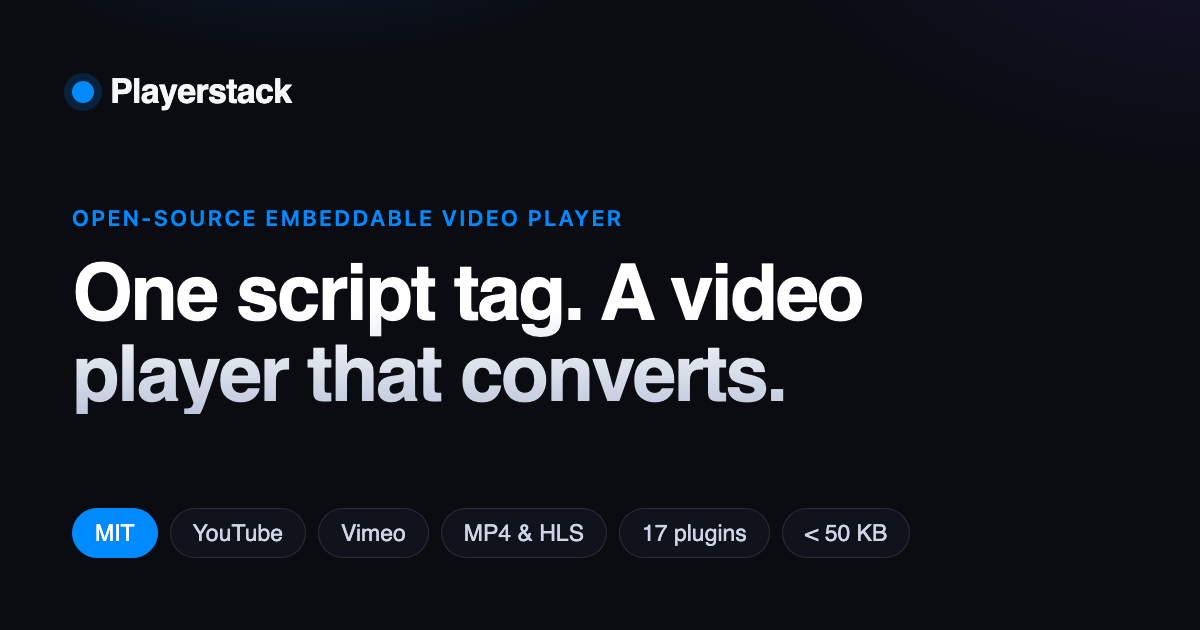
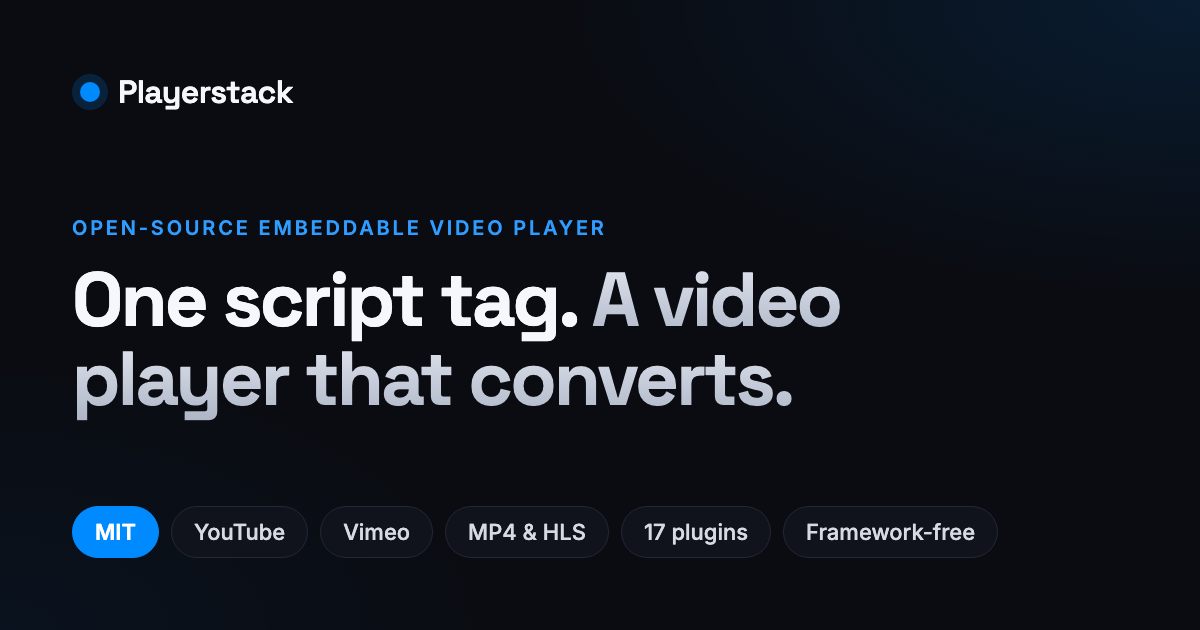
docs: regenerate OG image from source, build example 12 from the repo
- og-default.png drops the outdated "< 50 KB" chip (now "Framework-free")
  and keeps "17 plugins" (packages/plugin-*). Its source is
  apps/docs/og/og-default.html with the landing fonts; render with
  bun scripts/render-og.ts.
- examples/12-sellf-integration no longer imports unpublished
  @playerstack/* packages from esm.sh. It builds a small IIFE from the repo
  (entry.ts) with the real Sellf adapter, installing the provider before
  <player-stack> is defined.

diff --git a/apps/docs/og/og-default.html b/apps/docs/og/og-default.html
@@ -1,0 +1,118 @@
+<!doctype html>
+<!--
+  Source of apps/docs/public/og-default.png (1200x630).
+  Render: bun scripts/render-og.ts
+  Keep facts here stable: no bundle sizes (they change per release).
+-->
+<html lang="en">
+  <head>
+    <meta charset="utf-8" />
+    <style>
+      @font-face {
+        font-family: "Space Grotesk Variable";
+        src: url("../node_modules/@fontsource-variable/space-grotesk/files/space-grotesk-latin-wght-normal.woff2")
+          format("woff2-variations");
+        font-weight: 300 700;
+      }
+      @font-face {
+        font-family: "Inter Variable";
+        src: url("../node_modules/@fontsource-variable/inter/files/inter-latin-wght-normal.woff2")
+          format("woff2-variations");
+        font-weight: 100 900;
+      }
+      * {
+        box-sizing: border-box;
+        margin: 0;
+      }
+      html,
+      body {
+        width: 1200px;
+        height: 630px;
+      }
+      body {
+        background:
+          radial-gradient(900px 420px at 100% 0%, rgba(0, 138, 255, 0.13), transparent 70%),
+          radial-gradient(700px 380px at 0% 100%, rgba(0, 138, 255, 0.05), transparent 70%), #0a0c12;
+        color: #f5f7fc;
+        font-family: "Inter Variable", system-ui, sans-serif;
+        padding: 72px 72px 0;
+        position: relative;
+        overflow: hidden;
+      }
+      .brand {
+        display: flex;
+        align-items: center;
+        gap: 14px;
+        font-family: "Space Grotesk Variable", sans-serif;
+        font-weight: 600;
+        font-size: 32px;
+        letter-spacing: -0.02em;
+      }
+      .dot {
+        width: 20px;
+        height: 20px;
+        border-radius: 50%;
+        background: #008aff;
+        box-shadow: 0 0 0 8px rgba(0, 138, 255, 0.18);
+        margin: 0 4px 0 8px;
+      }
+      .eyebrow {
+        margin-top: 104px;
+        color: #2f9dff;
+        font-size: 20px;
+        font-weight: 600;
+        letter-spacing: 0.14em;
+        text-transform: uppercase;
+      }
+      h1 {
+        margin-top: 20px;
+        font-family: "Space Grotesk Variable", sans-serif;
+        font-weight: 700;
+        font-size: 76px;
+        line-height: 1.04;
+        letter-spacing: -0.035em;
+        max-width: 900px;
+      }
+      h1 .muted {
+        background: linear-gradient(180deg, #e6eaf3, #aab2c3);
+        -webkit-background-clip: text;
+        color: transparent;
+      }
+      .chips {
+        position: absolute;
+        left: 72px;
+        bottom: 72px;
+        display: flex;
+        gap: 12px;
+      }
+      .chip {
+        padding: 12px 22px;
+        border-radius: 999px;
+        border: 1px solid #222838;
+        background: #10131c;
+        color: #d5dae5;
+        font-size: 22px;
+        font-weight: 500;
+      }
+      .chip.accent {
+        background: #008aff;
+        border-color: #008aff;
+        color: #fff;
+        font-weight: 600;
+      }
+    </style>
+  </head>
+  <body>
+    <div class="brand"><span class="dot"></span>Playerstack</div>
+    <p class="eyebrow">Open-source embeddable video player</p>
+    <h1>One script tag. <span class="muted">A video player that converts.</span></h1>
+    <div class="chips">
+      <span class="chip accent">MIT</span>
+      <span class="chip">YouTube</span>
+      <span class="chip">Vimeo</span>
+      <span class="chip">MP4 &amp; HLS</span>
+      <span class="chip">17 plugins</span>
+      <span class="chip">Framework-free</span>
+    </div>
+  </body>
+</html>

diff --git a/examples/12-sellf-integration/index.html b/examples/12-sellf-integration/index.html
@@ -59,32 +59,10 @@
       ></player-stack>
     </div>
 
-    <!-- Use scoped packages instead of the standalone bundle, because we need
-         to install a custom config provider before the element registers -->
-    <script type="module">
-      import {
-        Playerstack,
-        setConfigProviderForElement,
-      } from "https://esm.sh/@playerstack/core@0.1.0";
-      import { sourcesPlugin } from "https://esm.sh/@playerstack/plugin-sources@0.1.0";
-      import { controlsPolicyPlugin } from "https://esm.sh/@playerstack/plugin-controls-policy@0.1.0";
-      import { ctaEndPlugin } from "https://esm.sh/@playerstack/plugin-cta-end@0.1.0";
-      import { brandedThumbPlugin } from "https://esm.sh/@playerstack/plugin-branded-thumb@0.1.0";
-      import { createSellfConfigProvider } from "https://esm.sh/@playerstack/plugin-sellf-adapter@0.1.0";
-
-      // 1. Install the Sellf config provider BEFORE define()
-      const sellf = createSellfConfigProvider({
-        baseUrl: "https://sellf.app",
-        // fetchOptions: { credentials: "include" }, // if your endpoint needs cookies
-      });
-      setConfigProviderForElement(sellf);
-
-      // 2. Register plugins as usual
-      Playerstack.use(sourcesPlugin)
-        .use(controlsPolicyPlugin)
-        .use(brandedThumbPlugin)
-        .use(ctaEndPlugin)
-        .define();
-    </script>
+    <!-- Custom build with the Sellf config provider (the hosted standalone script
+         does not include it). Build from the repo root first:
+         bun build examples/12-sellf-integration/entry.ts --format=iife --minify \
+           --outfile examples/12-sellf-integration/dist/playerstack-sellf.js -->
+    <script src="./dist/playerstack-sellf.js" defer></script>
   </body>
 </html>

diff --git a/examples/12-sellf-integration/entry.ts b/examples/12-sellf-integration/entry.ts
@@ -1,0 +1,20 @@
+// Custom Playerstack build with the Sellf config provider. The scoped
+// @playerstack/* packages are not on npm yet and the hosted standalone script
+// does not include the Sellf adapter, so this example builds from the repo:
+//   bun build examples/12-sellf-integration/entry.ts --format=iife --minify \
+//     --outfile examples/12-sellf-integration/dist/playerstack-sellf.js
+// 1. Install the Sellf config provider BEFORE anything defines <player-stack>
+//    (must stay the first import).
+import "./sellf-provider";
+import { Playerstack } from "../../packages/core/src/playerstack";
+import { sourcesPlugin } from "../../packages/plugin-sources/src/index";
+import { controlsPolicyPlugin } from "../../packages/plugin-controls-policy/src/index";
+import { brandedThumbPlugin } from "../../packages/plugin-branded-thumb/src/index";
+import { ctaEndPlugin } from "../../packages/plugin-cta-end/src/index";
+
+// 2. Register plugins as usual
+Playerstack.use(sourcesPlugin)
+  .use(controlsPolicyPlugin)
+  .use(brandedThumbPlugin)
+  .use(ctaEndPlugin)
+  .define();

diff --git a/scripts/render-og.ts b/scripts/render-og.ts
@@ -1,0 +1,24 @@
+// Renders apps/docs/og/og-default.html to apps/docs/public/og-default.png (1200x630).
+// Usage: bun scripts/render-og.ts
+import { chromium } from "@playwright/test";
+import { join } from "path";
+import { pathToFileURL } from "url";
+
+const docs = join(import.meta.dir, "../apps/docs");
+const browser = await chromium.launch();
+try {
+  const page = await browser.newPage({
+    viewport: { width: 1200, height: 630 },
+    deviceScaleFactor: 1,
+  });
+  await page.goto(pathToFileURL(join(docs, "og/og-default.html")).href);
+  await page.evaluate(() => document.fonts.ready);
+  const loaded = await page.evaluate(() =>
+    ["Space Grotesk Variable", "Inter Variable"].every((f) => document.fonts.check(`16px "${f}"`)),
+  );
+  if (!loaded) throw new Error("OG fonts did not load; run bun install first");
+  await page.screenshot({ path: join(docs, "public/og-default.png") });
+} finally {
+  await browser.close();
+}
+console.log("apps/docs/public/og-default.png");

diff --git a/examples/12-sellf-integration/sellf-provider.ts b/examples/12-sellf-integration/sellf-provider.ts
@@ -1,0 +1,13 @@
+// Installs the Sellf config provider. entry.ts imports this module first:
+// plugins import @playerstack/core, whose index defines <player-stack> on
+// import, and elements already in the page boot with whatever provider is
+// installed at that moment.
+import { setConfigProviderForElement } from "../../packages/core/src/playerstack-element";
+import { createSellfConfigProvider } from "../../packages/plugin-sellf-adapter/src/index";
+
+setConfigProviderForElement(
+  createSellfConfigProvider({
+    baseUrl: "https://sellf.app",
+    // fetchOptions: { credentials: "include" }, // if your endpoint needs cookies
+  }),
+);

diff --git a/examples/12-sellf-integration/README.md b/examples/12-sellf-integration/README.md
@@ -52,10 +52,18 @@ Your Sellf product must serve `/api/products/:id/playerstack` returning JSON:
 
 ## Run
 
+The hosted `playerstack.min.js` does not include the Sellf adapter, and the scoped `@playerstack/*` packages are not published to npm yet, so this example uses a small custom build from this repository (`entry.ts`):
+
 ```sh
+# from the repository root, after `bun install`
+bun build examples/12-sellf-integration/entry.ts --format=iife --minify \
+  --outfile examples/12-sellf-integration/dist/playerstack-sellf.js
+cd examples/12-sellf-integration
 python3 -m http.server 8000
 # open http://localhost:8000
 ```
+
+`sellf-provider.ts` (the first import of `entry.ts`) installs the Sellf config provider before `<player-stack>` is defined. Do not replace it with an inline `fetch` into `data-config`: the adapter keeps an allowlist of fields the remote API may set, so it cannot point analytics or lead-capture requests at a URL you did not choose.
 
 > Note: this example assumes a Sellf endpoint exists. The fetch will 404 against real `sellf.app` unless you have a configured product. The demo is for showing the integration pattern.
 
@@ -88,7 +96,7 @@ Sellf still drives `src`, `poster`, `ctaEnd`, etc. but `title` is taken from the
 
 ## Auth
 
-If your endpoint requires auth (e.g. only logged-in users see private courses):
+If your endpoint requires auth (e.g. only logged-in users see private courses), change the provider in `sellf-provider.ts` and rebuild:
 
 ```js
 const sellf = createSellfConfigProvider({

diff --git a/examples/README.md b/examples/README.md
@@ -15,7 +15,7 @@ Representative use cases. Each folder is a self-contained example with its own R
 | 9   | [next-js-app](./09-next-js-app)                 | Next.js 15      | Next.js with dynamic import (no SSR for the player)        |
 | 10  | [tailwind-styled](./10-tailwind-styled)         | HTML + Tailwind | Styling overrides via Tailwind utilities                   |
 | 11  | [wordpress-shortcode](./11-wordpress-shortcode) | PHP             | WordPress shortcode without a plugin                       |
-| 12  | [sellf-integration](./12-sellf-integration)     | TS              | Drive config from a Sellf product endpoint                 |
+| 12  | [sellf-integration](./12-sellf-integration)     | TS              | Drive config from a Sellf product endpoint (custom build)  |
 
 ## Running locally
 
